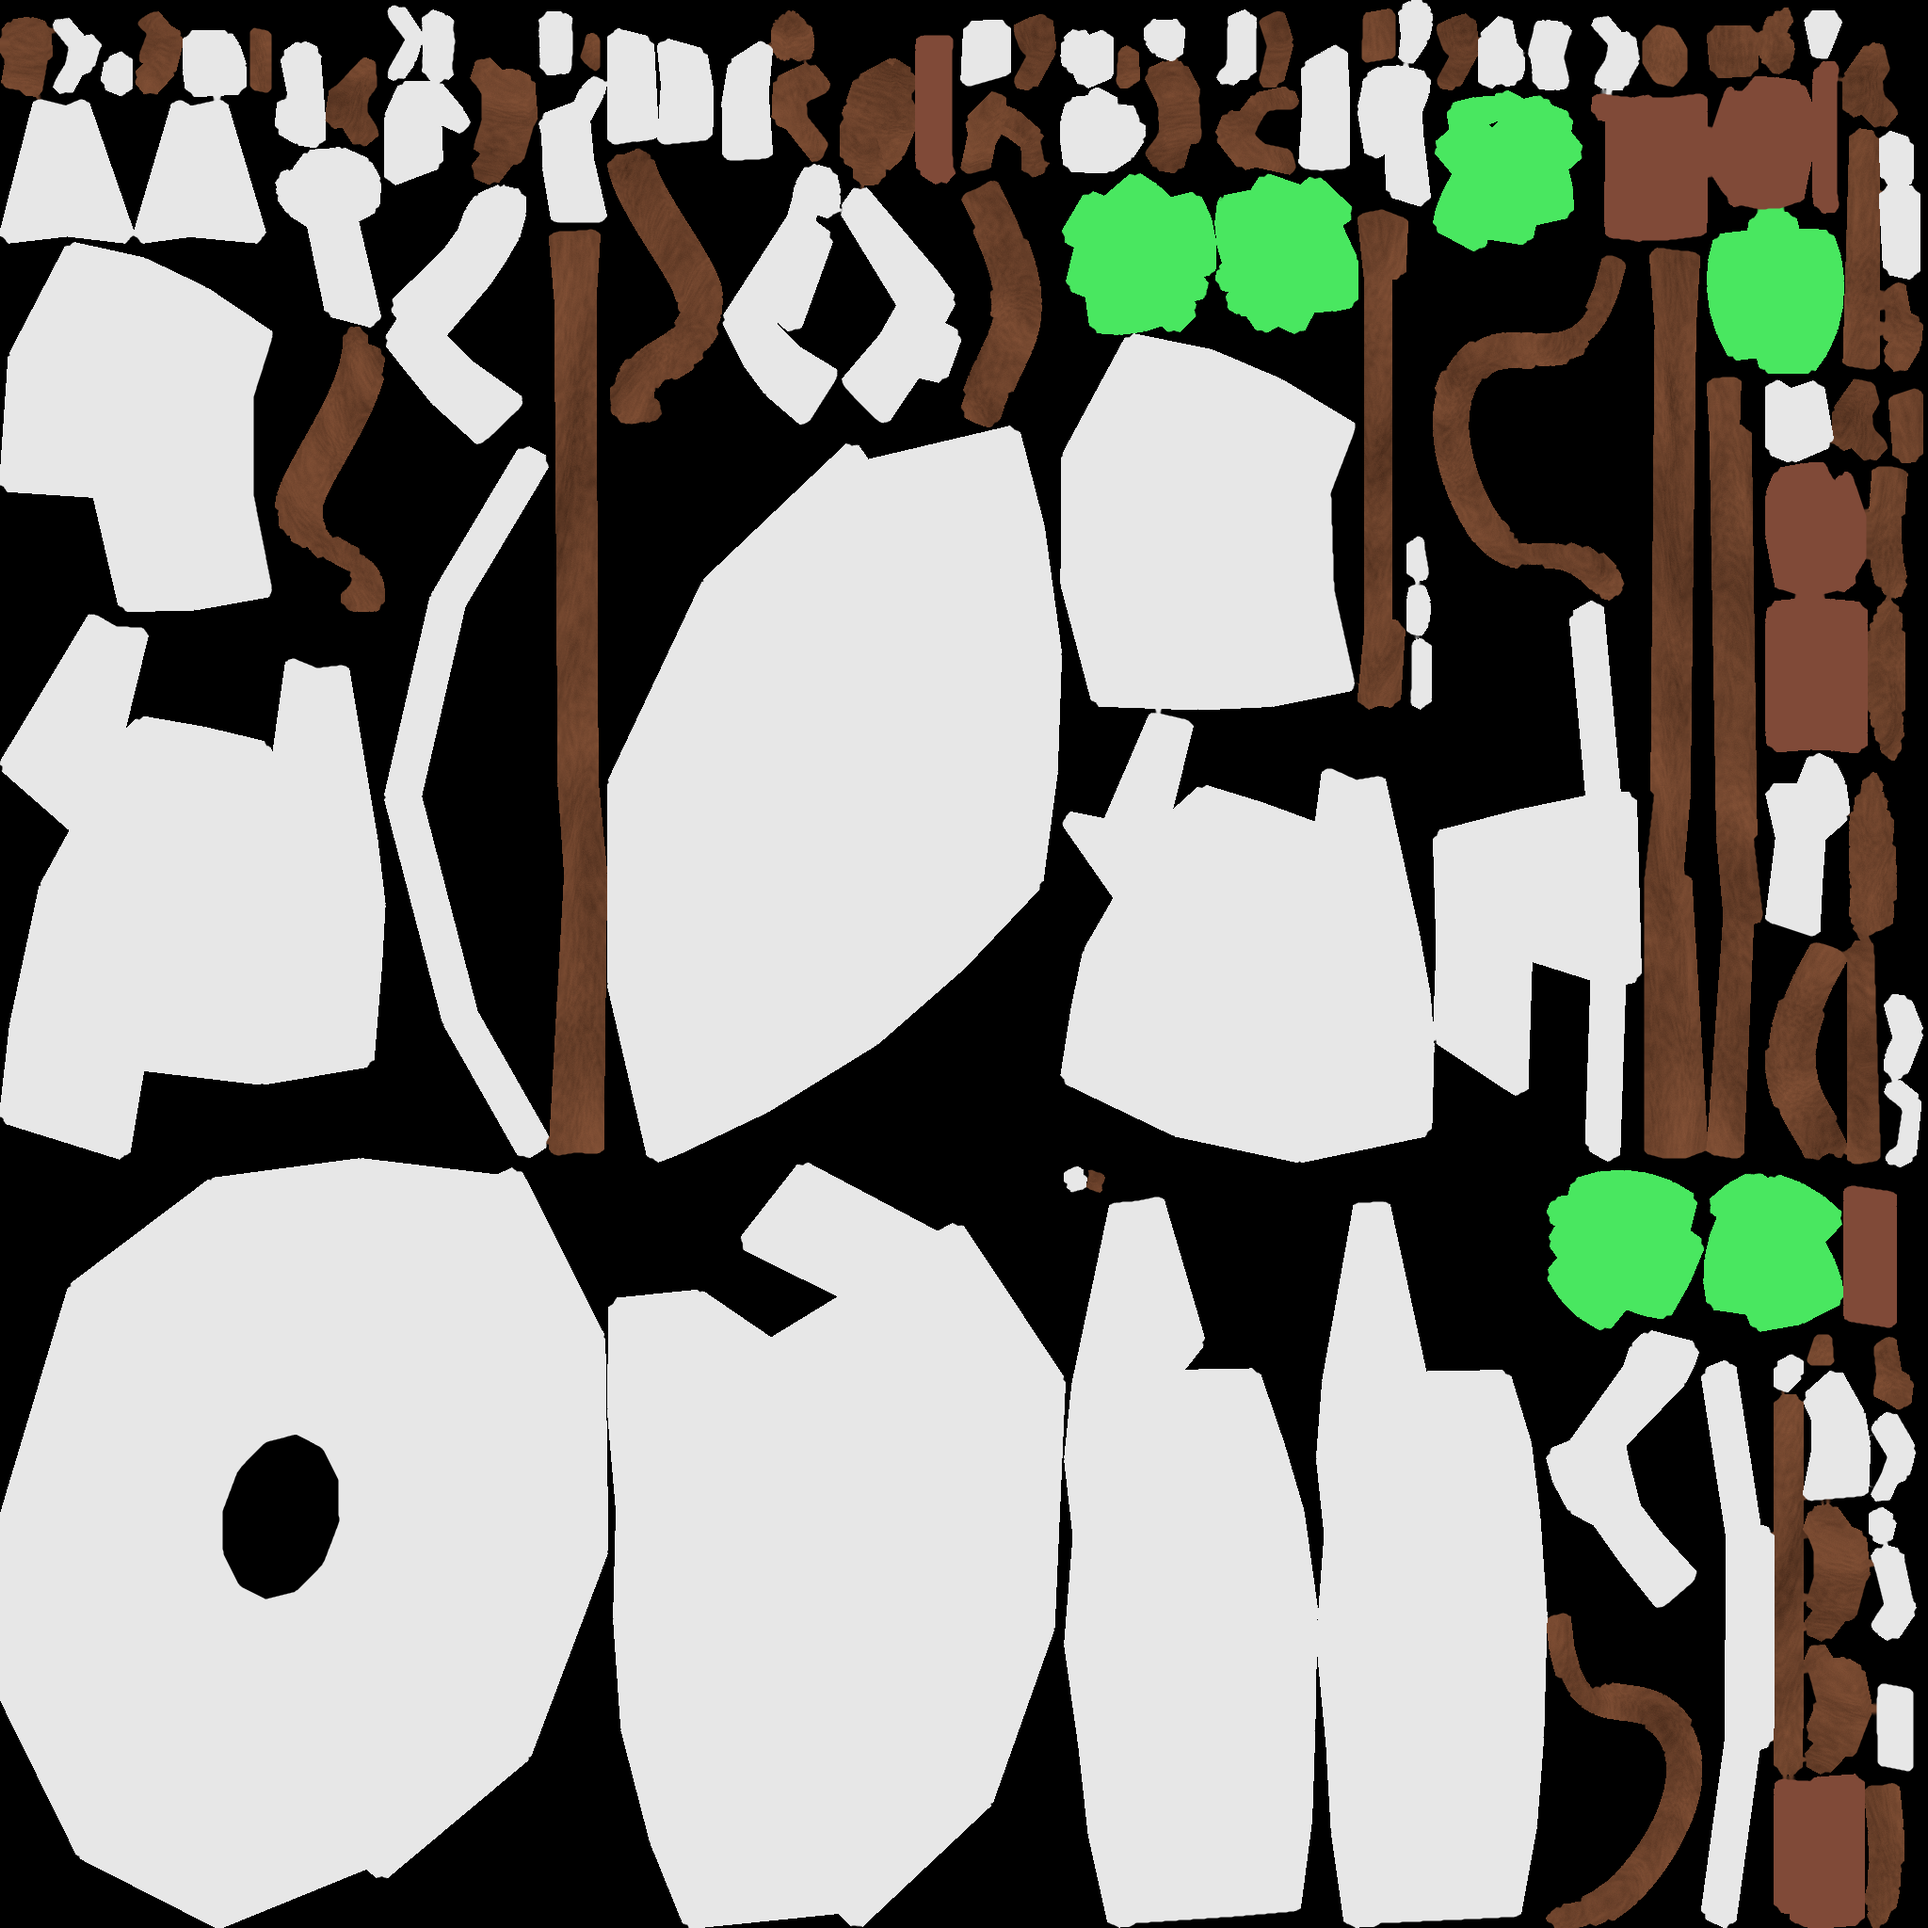
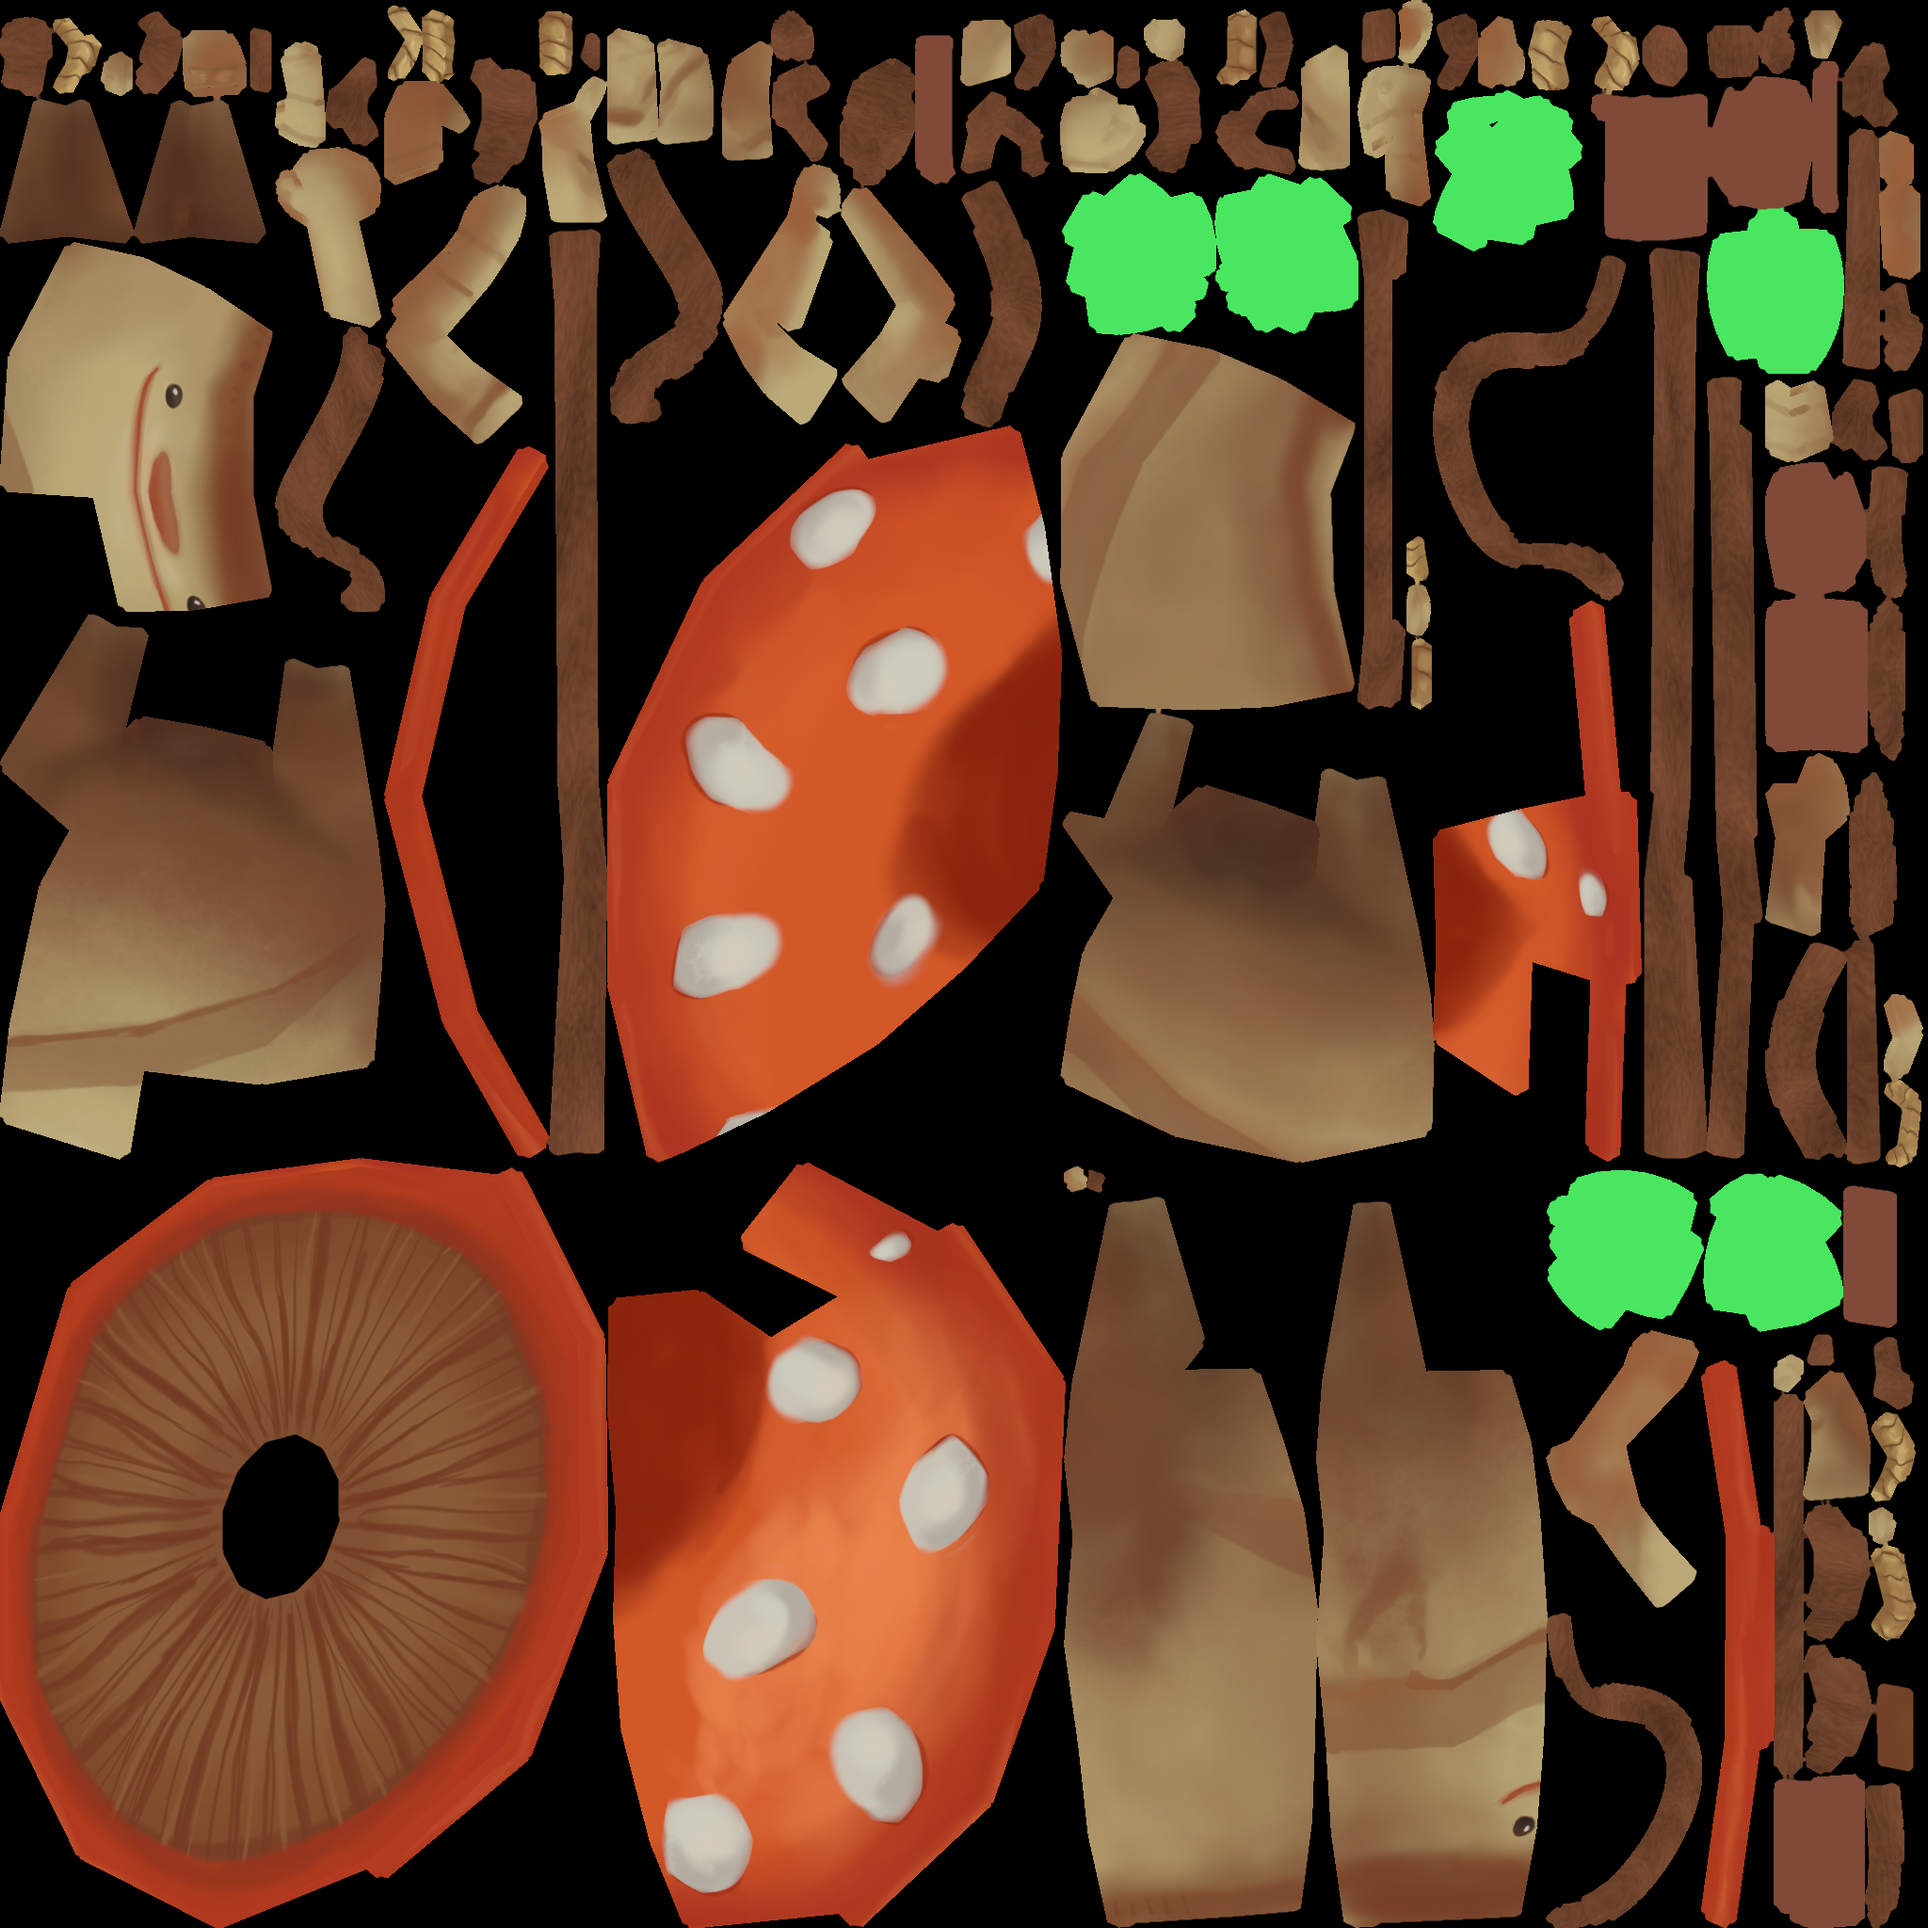
.

diff --git a/Assets/WarConquer/Runtime/UI/WarConquerController.Dialogs.cs b/Assets/WarConquer/Runtime/UI/WarConquerController.Dialogs.cs
@@ -52,7 +52,7 @@ namespace WarConquer
             float cardH = rowH - 16f;
             float cardX0 = 136f;
             float cardGap = 8f;
-            float cardW = Mathf.Floor((1070f - cardX0 - 8f - cardGap * 2f) / 3f);
+            float cardW = Mathf.Floor((1070f - cardX0 - 8f - cardGap * (CardCatalog.Leaders.Length - 1)) / CardCatalog.Leaders.Length);
             int titleSize = participants <= 2 ? 28 : participants == 3 ? 24 : 22;
             int detailSize = participants <= 2 ? 16 : participants == 3 ? 15 : 14;
 
@@ -103,19 +103,19 @@ foreach (string deck in CardCatalog.Leaders)
             }
 
             // Semilla y Escenario de pruebas: más abajo, para dejar espacio a las filas.
-            var seedText = GrayboxUI.Text(body, "Semilla " + seed + " · Mapa " + (participants == 2 ? "duelo" : participants == 3 ? "hexagonal" : "hueso") + " · " + participants + " mazos de 50", 30, 754, 400, 28, 17, GrayboxUI.Muted);
+            var seedText = GrayboxUI.Text(body, "Semilla " + seed + " · Mapa " + (participants == 2 ? "duelo" : participants == 3 ? "hexagonal" : "hueso") + " · " + participants + " mazos de 50", 30, 664, 1070, 26, 17, GrayboxUI.Muted);
             seedText.raycastTarget = false;
             SkinTextShadow(seedText);
-            SkinChoiceButton(body, "Escenario de pruebas", 836, 702, 260, 56, () => StartMatch(true), 18, false, SkinGold);
+            SkinChoiceButton(body, "Escenario de pruebas", 836, 716, 260, 56, () => StartMatch(true), 18, false, SkinGold);
 
             // COMENZAR: centrado en el panel (igual que el banner de arriba).
             // El texto baja un poco para quedar en el centro de la parte naranja.
-            SkinImageButton(body, "COMENZAR PARTIDA", 265, 672, 600, 116, () => StartMatch(false), 27, "Btn_Start", true, 10f, 7f);
+            SkinImageButton(body, "COMENZAR PARTIDA", 255, 696, 560, 92, () => StartMatch(false), 27, "Btn_Start", true, 10f, 7f);
 
             // VOLVER: pegado a la esquina superior derecha, sin tocar el panel.
             SkinImageButton(modal, "VOLVER", 1412, 14, 180, 57, () => { CloseModal(); ShowMainMenu(); }, 20, "Btn_Back", false, 70f);
 
-            SkinLogo(modal, 1270, 75, 260);
+            SkinLogo(modal, 1420, 85, 160);
         }
 
         // Logo en la esquina superior izquierda (con la animación del menú)

diff --git a/Assets/WarConquer/Runtime/UI/GrayboxUI.cs b/Assets/WarConquer/Runtime/UI/GrayboxUI.cs
@@ -28,7 +28,7 @@ namespace WarConquer
         public static Text Text(Transform parent,string text,float x,float y,float w,float h,int size=16,Color? color=null,FontStyle style=FontStyle.Normal)
         {
             var r=Rect(parent,"Text",x,y,w,h);var label=r.gameObject.AddComponent<Text>();label.font=Font;label.text=text;label.fontSize=size;label.color=color??Ink;label.fontStyle=style;
-            label.horizontalOverflow=HorizontalWrapMode.Wrap;label.verticalOverflow=VerticalWrapMode.Truncate;label.raycastTarget=false;return label;
+            label.horizontalOverflow=HorizontalWrapMode.Wrap;label.verticalOverflow=VerticalWrapMode.Truncate;label.raycastTarget=false;label.resizeTextForBestFit=true;label.resizeTextMaxSize=size;label.resizeTextMinSize=Mathf.Max(9,Mathf.FloorToInt(size*.75f));return label;
         }
         public static Button Button(Transform parent,string label,float x,float y,float w,float h,Action click,Color? color=null,bool enabled=true)
         {

diff --git a/Assets/WarConquer/Runtime/UI/WarConquerController.cs b/Assets/WarConquer/Runtime/UI/WarConquerController.cs
@@ -119,8 +119,8 @@ namespace WarConquer
 
             scaler.scaleFactor =
                 Mathf.Min(
-                    Screen.width / 1600f,
-                    Screen.height / 1000f
+                    Screen.safeArea.width / 1600f,
+                    Screen.safeArea.height / 1000f
                 );
 
             var background = canvasObject.GetComponent<RectTransform>();
@@ -547,9 +547,12 @@ namespace WarConquer
 
             float scale =
                 Mathf.Min(
-                    Screen.width / 1600f,
-                    Screen.height / 1000f
+                    Screen.safeArea.width / 1600f,
+                    Screen.safeArea.height / 1000f
                 );
+
+            scale = Mathf.Max(.1f, scale);
+            root.anchoredPosition = (Screen.safeArea.center - new Vector2(Screen.width, Screen.height) * .5f) / scale;
 
             if (Mathf.Abs(canvas.scaleFactor - scale) > .001f)
                 canvas.scaleFactor = scale;
